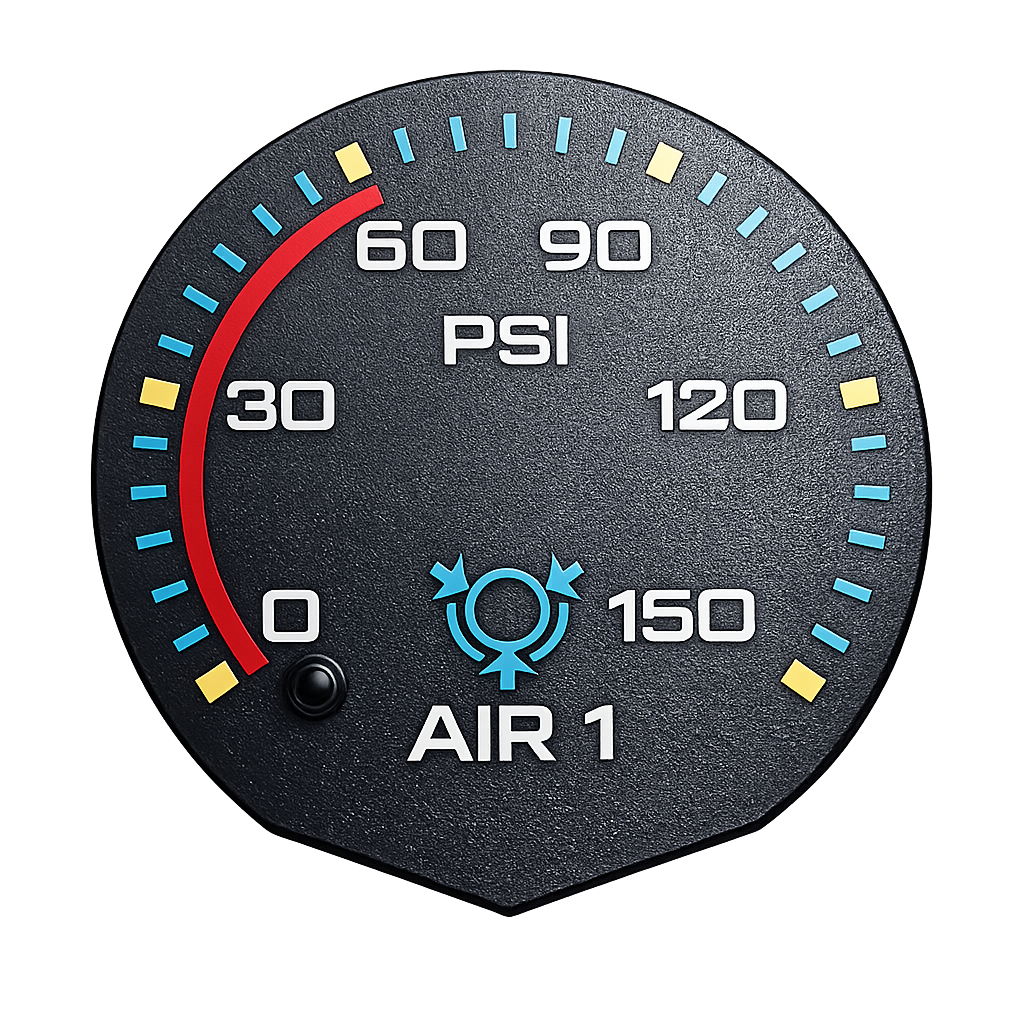
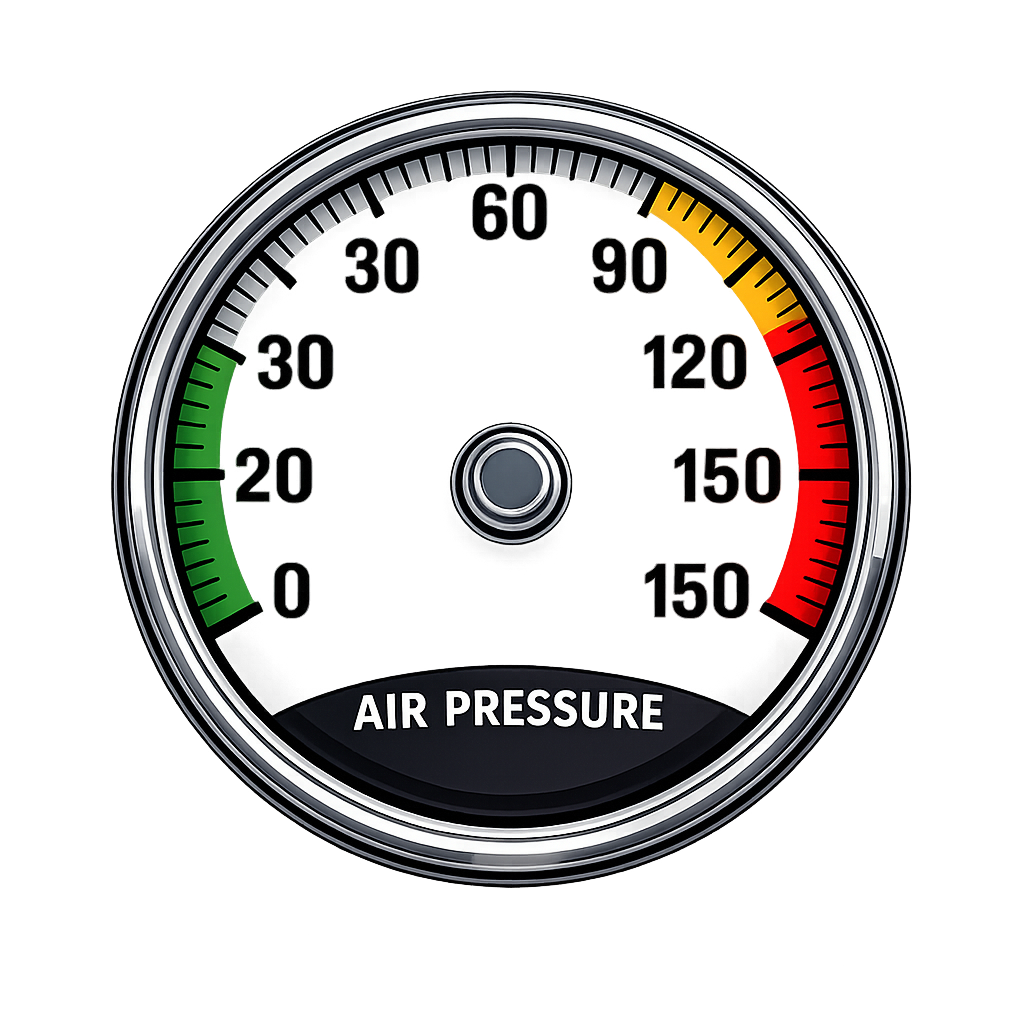
needle movement updates

diff --git a/main.py b/main.py
@@ -37,7 +37,7 @@ gas_location = [155, 550]
 maxi_location = [500, 200]
 air1_location = [0, 0]
 air2_location = [210, 0]
-needle_location = [25, 70]
+needle_location = [56.7, 125]
 
 #resize images in pygame using transform.smoothscale() method
 resize_maxi = pygame.transform.smoothscale(maxi, maxi_size)
@@ -64,6 +64,7 @@ color = (220, 220, 220)
 time_timer = 1000
 pressure1 = 120
 pressure2 = 120
+angle = 340
 
 #used only for displaying truck on or off. Air pressure starts and stops building based off of key_on variable. This could be removed in later iterations
 truck_on = True
@@ -71,15 +72,18 @@ truck_on = True
 #write function used to display text on screen
 def write(text,location,color=(240,240,240)):
     screen.blit(font.render(text,True,color),location)
+def change_angle(difference):
+    radar[0] + math.cos(math.radians(angle)) * radar_len
+    radar[1] + math.sin(math.radians(angle)) * radar_len
 radar_len = 50
 radar = (100,100)
-angle = pressure1
+angle = 328
+
 while True:
     pressed = pygame.key.get_pressed()
-    angle = pressure1
+
     for event in pygame.event.get():
         screen.fill((0, 0, 0))
-        
         #list of truck controls
         write("Press 0 to start truck", (550,15))
         write("Press 1 to shut off", (550,35))
@@ -88,8 +92,7 @@ while True:
         #initializes key_on variable which is used to increment pressure every x milliseconds as determined by time_timer variable
         key_on = pygame.USEREVENT
         pygame.time.set_timer(key_on, time_timer)
-        x = radar[0] + math.cos(math.radians(angle)) * radar_len
-        y = radar[1] + math.sin(math.radians(angle)) * radar_len
+
 
         #resized brake, gas, and maxi variables. These have to be done within this loop otherwise they will not reset properly.
         resize_brake = pygame.transform.smoothscale(brake, brake_size)
@@ -99,6 +102,7 @@ while True:
         #builds pressure up to maximum of 120 if key is on
         if event.type == key_on and pressure1 < 120:
             pressure1 += 1
+            angle += 1
         if event.type == key_on and pressure2 < 120:
             pressure2 += 1
 
@@ -132,14 +136,14 @@ while True:
             write("Truck ON", (450, 460), color=('green'))
         else:
             write("Truck OFF", (450, 460), color=('yellow'))
-        pygame.draw.line(screen, ("red"), radar, (x,y), 5)
-        pygame.display.flip()
+
         # increases build speed up by changing timer interval if acclerator pedal is held down. This will be converted to clickable button later.
         # meant to represent increased idle speed/RPM
         if pressed[pygame.K_g] and truck_on == True:
                 key_on = True
                 if pressure1 < 120:
                     pressure1 += 1
+                    angle += 3
                 if pressure2 < 120:
                     pressure2 += 1
                 time_timer = 800
@@ -165,16 +169,23 @@ while True:
                 brake_location[1] += 15
                 if 2 <= pressure1:
                     pressure1 -= 2
+                    angle -= 3
                 if 2 <= pressure2:
                     pressure2 -= 2
                 print(pressure1)
+                print(x,y)
+                print(angle)
+                print(radar)
     
     # brings brake size and location back to normal after presses
     brake_location = [30, 550]
     brake_size = [125, 150]
     press1_to_string = str(pressure1)
     press2_to_string = str(pressure2)
-
+    x = radar[0] + math.cos(math.radians(angle)) * radar_len
+    y = radar[1] + math.sin(math.radians(angle)) * radar_len
+    pygame.draw.line(screen, ("red"), radar, (x, y), 5)
+    pygame.display.flip()
     # displays air pressure
     write(press1_to_string, (90, 200), text_color)
     write(press2_to_string, (300, 200), text_color)
@@ -189,8 +200,12 @@ while True:
     if pressure1 < 38:
         maxi_size = [200, 200]
         maxi_location = [450, 150]
+    else:
+        maxi_size = [100, 100]
+        maxi_location = [500, 200]
 
     pygame.display.update()
+    print(angle)
     # print(event)
     clock.tick(60)
     
